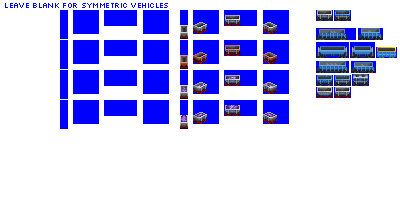
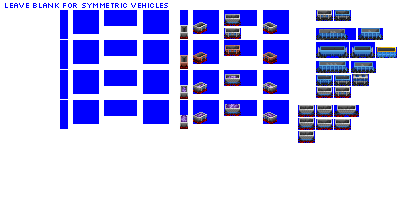
Change: 'aggregate hopper car'  not 'automated hopper car'

diff --git a/src/train.py b/src/train.py
@@ -895,6 +895,27 @@ class CarConsist(Consist):
             return "string(STR_NAME_CONSIST_PARENTHESES, string(" + self.get_wagon_title_class_str() + "), string(" + self.get_wagon_title_subtype_str() + "))"
 
 
+class AggregateHopperCarConsist(CarConsist):
+    """
+    Limited set of bulk (mineral) cargos.  Same as hopper, but different appearance and defaults to stone-type cargos.
+    """
+
+    def __init__(self, **kwargs):
+        self.base_id = 'aggregate_hopper_car'
+        super().__init__(**kwargs)
+        self.class_refit_groups = ['dump_freight']
+        self.label_refits_allowed = []  # none needed
+        self.label_refits_disallowed = global_constants.disallowed_refits_by_label['non_dump_bulk']
+        self.default_cargos = global_constants.default_cargos['hopper']
+        self.loading_speed_multiplier = 2
+        self.buy_cost_adjustment_factor = 1.2
+        # CC is swapped randomly (player can't choose), but also swap base livery on flip (player can choose
+        self.allow_flip = True
+        # Graphics configuration
+        self.gestalt_graphics = GestaltGraphicsVisibleCargo(bulk=True,
+                                                            has_alt_livery=True)
+
+
 class AlignmentCarConsist(CarConsist):
     """
     For checking sprite alignment
@@ -1178,27 +1199,6 @@ class HopperCarConsist(CarConsist):
 
     def __init__(self, **kwargs):
         self.base_id = 'hopper_car'
-        super().__init__(**kwargs)
-        self.class_refit_groups = ['dump_freight']
-        self.label_refits_allowed = []  # none needed
-        self.label_refits_disallowed = global_constants.disallowed_refits_by_label['non_dump_bulk']
-        self.default_cargos = global_constants.default_cargos['hopper']
-        self.loading_speed_multiplier = 2
-        self.buy_cost_adjustment_factor = 1.2
-        # CC is swapped randomly (player can't choose), but also swap base livery on flip (player can choose
-        self.allow_flip = True
-        # Graphics configuration
-        self.gestalt_graphics = GestaltGraphicsVisibleCargo(bulk=True,
-                                                            has_alt_livery=True)
-
-# !! out of alphabetical order - this is just a graphical variant, convert to a subclasss of hopper?
-class AutomatedHopperCarConsist(CarConsist):
-    """
-    Limited set of bulk (mineral) cargos.
-    """
-
-    def __init__(self, **kwargs):
-        self.base_id = 'automated_hopper_car'
         super().__init__(**kwargs)
         self.class_refit_groups = ['dump_freight']
         self.label_refits_allowed = []  # none needed

diff --git a/src/vehicles/aggregate_hopper_cars.py b/src/vehicles/aggregate_hopper_cars.py
@@ -1,24 +1,24 @@
-from train import AutomatedHopperCarConsist, FreightCar
+from train import AggregateHopperCarConsist, FreightCar
 
 
 def main():
     #--------------- pony ----------------------------------------------------------------------
 
-    consist = AutomatedHopperCarConsist(roster='pony',
+    consist = AggregateHopperCarConsist(roster='pony',
                                base_numeric_id=1610,
-                               gen=4,
+                               gen=5,
                                subtype='A',
                                sprites_complete=False)
 
     consist.add_unit(type=FreightCar,
-                     chassis='2_axle_gapped_16px')
+                     chassis='2_axle_sparse_16px')
 
 
-    consist = AutomatedHopperCarConsist(roster='pony',
+    consist = AggregateHopperCarConsist(roster='pony',
                                base_numeric_id=1600,
-                               gen=4,
+                               gen=5,
                                subtype='B',
                                sprites_complete=False)
 
     consist.add_unit(type=FreightCar,
-                     chassis='4_axle_gapped_24px')
+                     chassis='4_axle_sparse_24px')

diff --git a/src/global_constants.py b/src/global_constants.py
@@ -15,7 +15,7 @@ buy_menu_sort_order_wagons = ['alignment_car',
                               'flat_car',
                               'tarpaulin_car',
                               'hopper_car',
-                              'automated_hopper_car',
+                              'aggregate_hopper_car',
                               'dump_car',
                               'tank_car',
                               'cryo_tank_car',

diff --git a/src/iron_horse.py b/src/iron_horse.py
@@ -43,8 +43,8 @@ from vehicles import alignment_cars
 alignment_cars.main()
 """
 
-from vehicles import automated_hopper_cars
-automated_hopper_cars.main()
+from vehicles import aggregate_hopper_cars
+aggregate_hopper_cars.main()
 
 from vehicles import box_cars
 box_cars.main()
